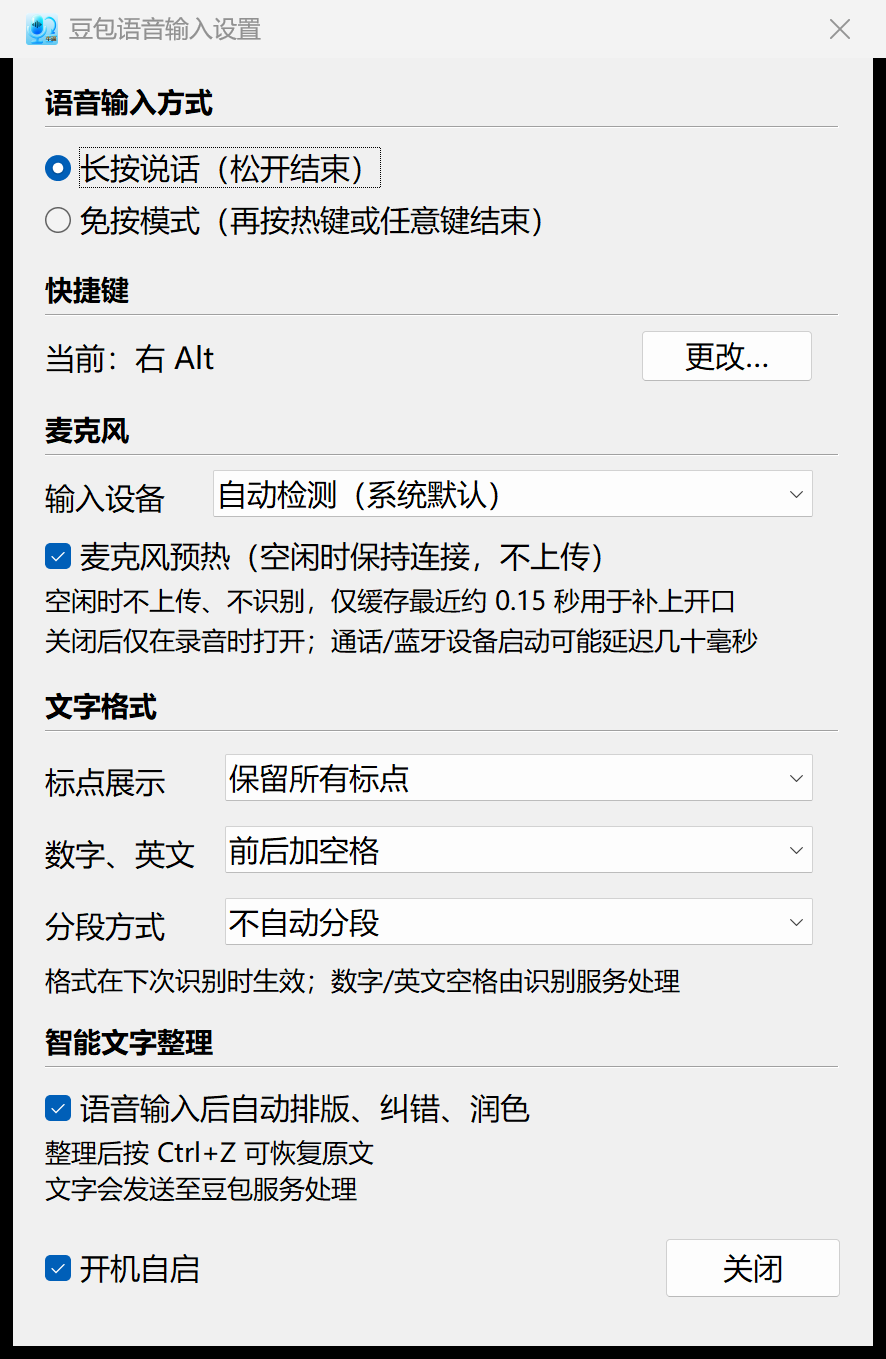
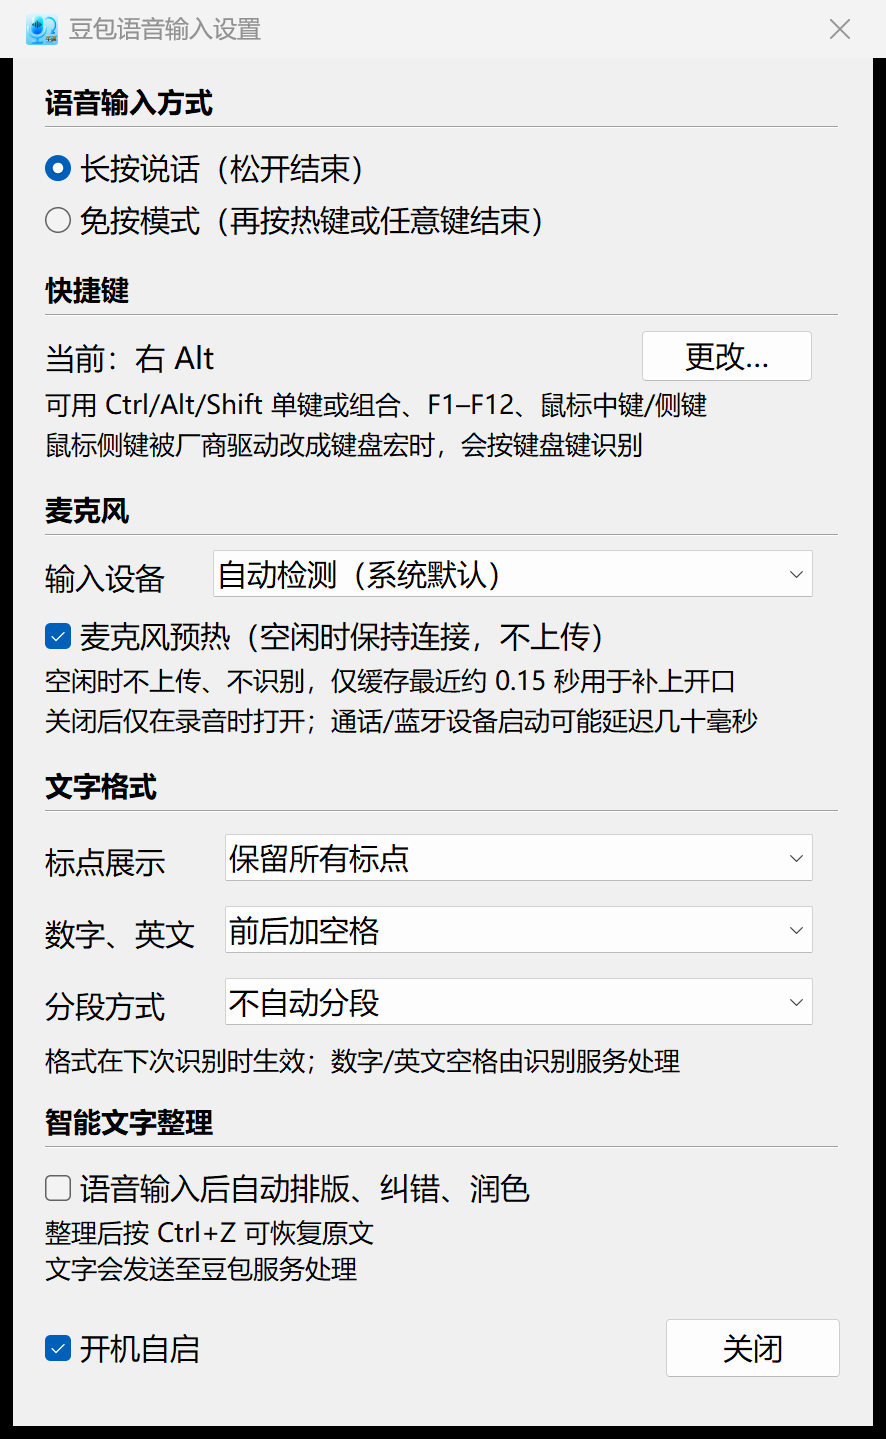
新增鼠标中键快捷键，设置页补充可用快捷键说明

diff --git a/app/voice_ime.py b/app/voice_ime.py
@@ -1376,9 +1376,9 @@ WH_KEYBOARD_LL = 13
 WH_MOUSE_LL = 14
 WM_KEYDOWN, WM_KEYUP = 0x0100, 0x0101
 WM_SYSKEYDOWN, WM_SYSKEYUP = 0x0104, 0x0105
-WM_LBUTTONDOWN, WM_RBUTTONDOWN = 0x0201, 0x0204
-WM_MBUTTONDOWN, WM_XBUTTONDOWN = 0x0207, 0x020B
-WM_XBUTTONUP = 0x020C
+WM_LBUTTONDOWN, WM_RBUTTONDOWN, WM_MBUTTONDOWN = 0x0201, 0x0204, 0x0207
+WM_MBUTTONUP, WM_XBUTTONDOWN, WM_XBUTTONUP = 0x0208, 0x020B, 0x020C
+WM_NCMBUTTONDOWN, WM_NCMBUTTONUP = 0x00A7, 0x00A8
 WM_NCXBUTTONDOWN, WM_NCXBUTTONUP = 0x00AB, 0x00AC
 VK_RMENU, VK_MENU, VK_ESCAPE = 0xA5, 0x12, 0x1B
 LLKHF_EXTENDED = 0x01
@@ -1410,7 +1410,7 @@ MOD_GROUPS = {
 _MOD_TOKENS = {"LCTRL", "RCTRL", "LALT", "RALT", "LSHIFT", "RSHIFT",
                "CTRL", "ALT", "SHIFT"}
 _MOUSE_BUTTON_TOKENS = {"XBUTTON1", "XBUTTON2"}
-_STANDALONE_TOKENS = _MOUSE_BUTTON_TOKENS | {"BROWSER_BACK", "BROWSER_FORWARD"}
+_STANDALONE_TOKENS = _MOUSE_BUTTON_TOKENS | {"MBUTTON", "BROWSER_BACK", "BROWSER_FORWARD"}
 _MOD_ORDER = ["CTRL", "LCTRL", "RCTRL", "ALT", "LALT", "RALT",
               "SHIFT", "LSHIFT", "RSHIFT"]
 
@@ -1485,6 +1485,7 @@ def hotkey_display(tokens):
              "SPACE": "Space", "ENTER": "Enter", "TAB": "Tab",
              "BACKSPACE": "Backspace",
              "XBUTTON1": "鼠标侧键1", "XBUTTON2": "鼠标侧键2",
+             "MBUTTON": "鼠标中键",
              "BROWSER_BACK": "浏览器后退", "BROWSER_FORWARD": "浏览器前进"}
     return "+".join(names.get(t, t) for t in tokens)
 
@@ -1514,7 +1515,9 @@ class Hotkey:
             return f"再按 {self.display()} 或任意键结束"
         if self.single_mod:
             return f"松开{self.display()}结束"
-        if any(t in _MOUSE_BUTTON_TOKENS for t in self.combo):
+        if "MBUTTON" in self.combo:
+            return "松开鼠标中键结束"
+        if any(t in ("XBUTTON1", "XBUTTON2") for t in self.combo):
             return "松开鼠标侧键结束"
         return "松开按键结束"
 
@@ -1594,7 +1597,7 @@ class Hotkey:
         return user32.CallNextHookEx(self.hook, nCode, wParam, lParam)
 
     def _handle_input(self, tok, is_down, injected):
-        """键盘键和鼠标侧键共用的状态机，返回 True 表示吞掉该事件。"""
+        """键盘键和鼠标键共用的状态机，返回 True 表示吞掉该事件。"""
         if self.app.capturing:
             return self._capture(tok, is_down)
         if is_down:
@@ -1672,11 +1675,15 @@ class Hotkey:
                 tok = "XBUTTON%d" % ((ms.mouseData >> 16) & 0xFFFF)
                 if tok in _MOUSE_BUTTON_TOKENS:
                     is_down = wParam in (WM_XBUTTONDOWN, WM_NCXBUTTONDOWN)
-                    # 本程序不注入鼠标侧键，注入的侧键事件也按真实按键处理
+                    # 本程序不注入鼠标键，注入的鼠标键事件也按真实按键处理
                     if self._handle_input(tok, is_down, False):
                         return 1
-            elif (wParam in (WM_LBUTTONDOWN, WM_RBUTTONDOWN, WM_MBUTTONDOWN)
-                    and not injected):
+            elif wParam in (WM_MBUTTONDOWN, WM_MBUTTONUP,
+                            WM_NCMBUTTONDOWN, WM_NCMBUTTONUP):
+                is_down = wParam in (WM_MBUTTONDOWN, WM_NCMBUTTONDOWN)
+                if self._handle_input("MBUTTON", is_down, False):
+                    return 1
+            elif wParam in (WM_LBUTTONDOWN, WM_RBUTTONDOWN) and not injected:
                 self.app.note_user_input("mouse")
                 if self.active and self.active_mode == "hands_free":
                     self.active = False
@@ -2278,7 +2285,7 @@ COLOR_BTNFACE = 15
 COLOR_BTNFACE_BRUSH = COLOR_BTNFACE + 1
 
 SETTINGS_WIDTH = 430
-SETTINGS_HEIGHT = 644 if SMART_AVAILABLE else 532
+SETTINGS_HEIGHT = 684 if SMART_AVAILABLE else 572
 WM_DPICHANGED = 0x02E0
 MONITOR_DEFAULTTONEAREST = 2
 SWP_NOZORDER = 0x0004
@@ -2344,6 +2351,8 @@ class Settings:
     ID_SMART = 2115
     ID_SMART_HINT = 2116
     ID_SMART_HINT2 = 2117
+    ID_HOTKEY_HINT = 2118
+    ID_HOTKEY_HINT2 = 2119
 
     PUNCT_ITEMS = [("keep_all", "保留所有标点"),
                    ("remove_trailing", "句末不加标点"),
@@ -2601,47 +2610,51 @@ class Settings:
         self._section("快捷键", 106, 2202, 2212)
         self._mk("STATIC", "", 0, M, 140, 220, 20, self.ID_HOTKEY_LABEL)
         self._mk("BUTTON", "更改…", WS_TABSTOP, M + CW - 100, 136, 86, 26, self.ID_HOTKEY)
+        self._mk("STATIC", "可用 Ctrl/Alt/Shift 单键或组合、F1–F12、鼠标中键/侧键", 0,
+                 M, 164, 398, 18, self.ID_HOTKEY_HINT, small=True)
+        self._mk("STATIC", "鼠标侧键被厂商驱动改成键盘宏时，会按键盘键识别", 0,
+                 M, 184, 398, 18, self.ID_HOTKEY_HINT2, small=True)
 
-        self._section("麦克风", 176, 2203, 2213)
-        self._mk("STATIC", "输入设备", 0, M, 210, 64, 20, 2204)
+        self._section("麦克风", 216, 2203, 2213)
+        self._mk("STATIC", "输入设备", 0, M, 250, 64, 20, 2204)
         combo = self._mk("COMBOBOX", "", CBS_DROPDOWNLIST | CBS_HASSTRINGS | WS_TABSTOP
-                         | WS_VSCROLL, M + 84, 206, CW - 98, 220, self.ID_MIC)
+                         | WS_VSCROLL, M + 84, 246, CW - 98, 220, self.ID_MIC)
         user32.SendMessageW(combo, CB_SETDROPPEDWIDTH, self._s(520), 0)
         self._mk("BUTTON", "麦克风预热（空闲时保持连接，不上传）", BS_AUTOCHECKBOX | WS_TABSTOP,
-                 M, 238, 398, 22, self.ID_MIC_ALWAYS)
+                 M, 278, 398, 22, self.ID_MIC_ALWAYS)
         self._mk("STATIC", "空闲时不上传、不识别，仅缓存最近约 0.15 秒用于补上开口", 0,
-                 M, 262, 398, 18, self.ID_MIC_HINT, small=True)
+                 M, 302, 398, 18, self.ID_MIC_HINT, small=True)
         self._mk("STATIC", "关闭后仅在录音时打开；通话/蓝牙设备启动可能延迟几十毫秒", 0,
-                 M, 282, 398, 18, self.ID_MIC_HINT2, small=True)
+                 M, 322, 398, 18, self.ID_MIC_HINT2, small=True)
 
-        self._section("文字格式", 314, 2205, 2215)
+        self._section("文字格式", 354, 2205, 2215)
         rows = (("标点展示", self.ID_PUNCT, 2206),
                 ("数字、英文", self.ID_SPACE, 2207),
                 ("分段方式", self.ID_PARAGRAPH, 2208))
         for i, (label, cid, _) in enumerate(rows):
-            ry = 348 + i * 36
+            ry = 388 + i * 36
             self._mk("STATIC", label, 0, M, ry + 4, 82, 20, 2209 + i)
             c = self._mk("COMBOBOX", "", CBS_DROPDOWNLIST | CBS_HASSTRINGS | WS_TABSTOP
                          | WS_VSCROLL, M + 90, ry, CW - 104, 200, cid)
             user32.SendMessageW(c, CB_SETDROPPEDWIDTH, self._s(280), 0)
         self._mk("STATIC", "格式在下次识别时生效；数字/英文空格由识别服务处理", 0,
-                 M, 452, 350, 18, self.ID_FORMAT_HINT, small=True)
+                 M, 492, 350, 18, self.ID_FORMAT_HINT, small=True)
 
         if SMART_AVAILABLE:
-            self._section("智能文字整理", 482, 2216, 2217)
+            self._section("智能文字整理", 522, 2216, 2217)
             self._mk("BUTTON", "语音输入后自动排版、纠错、润色", BS_AUTOCHECKBOX | WS_TABSTOP,
-                     M, 514, 398, 22, self.ID_SMART)
+                     M, 554, 398, 22, self.ID_SMART)
             self._mk("STATIC", "整理后按 Ctrl+Z 可恢复原文", 0,
-                     M, 538, 398, 18, self.ID_SMART_HINT, small=True)
+                     M, 578, 398, 18, self.ID_SMART_HINT, small=True)
             self._mk("STATIC", "文字会发送至豆包服务处理", 0,
-                     M, 556, 398, 18, self.ID_SMART_HINT2, small=True)
+                     M, 596, 398, 18, self.ID_SMART_HINT2, small=True)
             self._mk("BUTTON", "开机自启", BS_AUTOCHECKBOX | WS_TABSTOP,
-                     M, 594, 160, 22, self.ID_AUTOSTART)
-            self._mk("BUTTON", "关闭", WS_TABSTOP, M + CW - 88, 590, 88, 30, self.ID_CLOSE)
+                     M, 634, 160, 22, self.ID_AUTOSTART)
+            self._mk("BUTTON", "关闭", WS_TABSTOP, M + CW - 88, 630, 88, 30, self.ID_CLOSE)
         else:
             self._mk("BUTTON", "开机自启", BS_AUTOCHECKBOX | WS_TABSTOP,
-                     M, 482, 160, 22, self.ID_AUTOSTART)
-            self._mk("BUTTON", "关闭", WS_TABSTOP, M + CW - 88, 478, 88, 30, self.ID_CLOSE)
+                     M, 522, 160, 22, self.ID_AUTOSTART)
+            self._mk("BUTTON", "关闭", WS_TABSTOP, M + CW - 88, 518, 88, 30, self.ID_CLOSE)
 
         for cid, items in ((self.ID_PUNCT, self.PUNCT_ITEMS),
                            (self.ID_SPACE, self.SPACE_ITEMS),
@@ -2994,13 +3007,13 @@ class App:
             return
         self.capturing = True
         self.hotkey.begin_capture()
-        self.set_ui("capture", "按下新的快捷键或鼠标侧键…  Esc 取消")
+        self.set_ui("capture", "按下新的快捷键或鼠标键…  Esc 取消")
         log("capture start")
 
     def capture_invalid(self):
         if not self.capturing:
             return
-        self.set_ui("capture", "请包含 Ctrl/Alt/Shift、使用 F1–F12，或直接按鼠标侧键。Esc 取消")
+        self.set_ui("capture", "请包含 Ctrl/Alt/Shift、使用 F1–F12，或直接按鼠标中键/侧键。Esc 取消")
 
     def capture_done(self, spec):
         if not self.capturing:

diff --git a/README.md b/README.md
@@ -6,7 +6,7 @@
 
 - 长按说话、松开输入，`Esc` 取消；也支持免按模式（按一次开始，再按热键、任意键或鼠标键结束）
 - 实时转录浮层，边说边看
-- 默认快捷键 `右 Alt`，可改成组合键、单功能键或鼠标侧键
+- 默认快捷键 `右 Alt`，可改成组合键、单功能键或鼠标中键/侧键
 - 图形设置窗口：输入方式、快捷键、麦克风、文字格式、开机自启集中配置
 - 麦克风可选自动检测或指定设备
 - 文字格式可调：标点展示、汉字与数字/英文之间是否加空格、按句末标点自动分段
@@ -63,7 +63,7 @@
 ![设置窗口](docs/screenshots/settings.png)
 
 - **语音输入方式**：长按说话（默认）或免按模式。免按模式按一次热键开始录音，再按同一热键、任意字母/数字键、空格/回车或鼠标键结束；单按 Ctrl/Alt/Shift 不会结束；录音中按 `Esc` 取消。
-- **快捷键**：点“更改…”后按下新组合键，必须包含 Ctrl/Alt/Shift，或使用 F1–F12；鼠标侧键（后退/前进）可以单独使用，也可以搭配 Ctrl/Alt/Shift。若侧键被厂商驱动改成了键盘宏，会按键盘键识别。
+- **快捷键**：点“更改…”后按下新组合键，必须包含 Ctrl/Alt/Shift，或使用 F1–F12；鼠标中键、侧键（后退/前进）可以单独使用，也可以搭配 Ctrl/Alt/Shift。若侧键被厂商驱动改成了键盘宏，会按键盘键识别。
 - **麦克风**：输入设备可自动检测（系统默认）或指定，列表只包含 MME / DirectSound 设备。**麦克风预热**默认开启：空闲时保持音频流，不上传也不识别，只缓存最近约 0.15 秒用于补上开口瞬间，延迟最低；关闭后只在录音期间打开，系统麦克风指示器随之熄灭，代价是通话/蓝牙设备启动时可能多几十毫秒。
 - **文字格式**（下次识别时生效）：
   - 标点展示：保留所有标点 / 句末不加标点 / 空格代替标点
